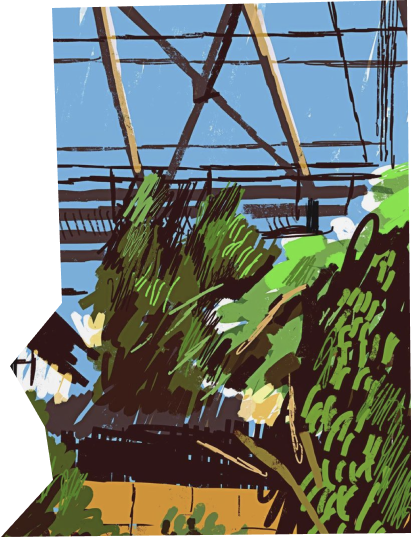
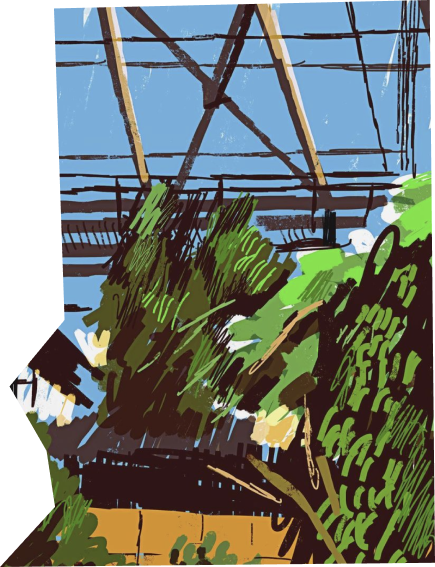
frame mobile on screen 8

diff --git a/src/assets/scripts/gulp-modules/home.js b/src/assets/scripts/gulp-modules/home.js
@@ -635,7 +635,8 @@ window.ttl = gsap.timeline( {
   scale: tl8IsMobile ? 1 : 1 / 1.5
 },'<')
 .to(frames[3], {
-  xPercent: tl8IsMobile ? -20 : -55,
+  yPercent: tl8IsMobile ? 8 : 0,
+  xPercent: tl8IsMobile ? -32 : -55,
   scale: tl8IsMobile ? 0.36 : 1 / 1.87
 },'<')
 .addLabel('frame1')
@@ -644,7 +645,7 @@ window.ttl = gsap.timeline( {
 
 // frame 2
 .to(frames[2], { 
-  scale: 1 / 0.49,
+  scale: tl8IsMobile ? 2.85 :  1 / 0.49,
   x: () => {
     return getDistanceToScreenCenter(frames[2], 1.7).x;
   }, 
@@ -654,54 +655,59 @@ window.ttl = gsap.timeline( {
 .to('[data-frame="1-1"]', { autoAlpha: 0, duration: 0.35 }, '<')
 .to(frames[1], { 
   scale: 1 / 2.3, 
-  xPercent: 62, 
-  yPercent: -50,
+  xPercent: tl8IsMobile ? 0 : 62, 
+  yPercent: tl8IsMobile ? -140 : -50,
   top: getDistanceToScreenCenter(frames[1]).initialTop 
 }, '<')
 .to(frames[5], { 
-  scale: 1 / 1.49, 
-  xPercent: -100, 
+  scale: tl8IsMobile ? 0.64 : 1 / 1.49, 
+  yPercent: tl8IsMobile ? 40 : 0,
+  xPercent: tl8IsMobile ? -108 : -100, 
 }, '<')
 .to(frames[4], { 
   scale: 1 / 1.4, 
-  yPercent: 108,
-  xPercent: 100, 
+  xPercent: tl8IsMobile ? -15 : 100, 
+  yPercent: tl8IsMobile ?  70 : 108,
 }, '<')
 .to(frames[3], { 
-  xPercent: -135,
+  xPercent: tl8IsMobile ? 30 : -135,
 }, '<')
 .to('[data-frame="1-2"]', { autoAlpha: 1, duration: 0.35 } )
 .addLabel('frame2')
 // frame 3
 
 .to(frames[3], { 
-  scale: 1 / 0.37,
-  xPercent: -262,
-  yPercent: -115
+  scale: tl8IsMobile ? 1.4 : 1 / 0.37,
+  xPercent: tl8IsMobile ? -15 : -262,
+  yPercent: tl8IsMobile ? -107 : -115
 })
+
 .to('[data-frame="1-2"]', { autoAlpha: 0, duration: 0.35 }, '<')
 .to(frames[2], { 
-  scale: 1 / 1.38,
+  scale: tl8IsMobile ? 1 : 1 / 1.38,
   x: 0,
   y: 0,
-  xPercent: 60,
-  yPercent: 0,
+  xPercent: tl8IsMobile ? -100 : 60,
+  yPercent: tl8IsMobile ? 102 : 0,
   top: getDistanceToScreenCenter(frames[2]).initialTop
 }, '<')
 .to(frames[1], { 
-  xPercent: 83,
-}, '<')
-.to(frames[5], { 
-  xPercent: -100,
-  yPercent: -70,
-  scale: 1/0.83,
+  xPercent: tl8IsMobile ? -16 : 83,
+  yPercent: tl8IsMobile ? -232 : -140,
 }, '<')
 .to(frames[4], { 
-  xPercent: 100,
-  yPercent: 100,
-  scale: 1/2.04,
+  xPercent: tl8IsMobile ? 81 :  100,
+  yPercent: tl8IsMobile ? 88 :  100,
+  scale: tl8IsMobile ? 0.79 : 1/2.04,
+}, '<')
+
+.to(frames[5], { 
+  xPercent: tl8IsMobile ? -180 : -100,
+  yPercent: tl8IsMobile ? 40  : -70,
+  scale: tl8IsMobile ? 0.8 : 1/0.83,
 }, '<')
 .to('[data-frame="1-3"]', { autoAlpha: 1, duration: 0.35 } )
+//translate(-180%, 40%) scale(0.8)
 .addLabel('frame3')
 
 // frame 4
@@ -718,7 +724,7 @@ window.ttl = gsap.timeline( {
 .to(frames[4], { 
   xPercent: 245,
   yPercent: 75,
-  scale: 1 / 0.5,
+  scale: tl8IsMobile ? 3.09 : 1 / 0.5,
 }, '<')
 .to(frames[2], { 
   xPercent: 0,

diff --git a/src/assets/styles/home/screen8-home.scss b/src/assets/styles/home/screen8-home.scss
@@ -103,6 +103,10 @@
         top: calc(100% + 8px);
         left: 0;
         opacity: 0;
+        @include to(575px){
+            font-size: 6px;
+            width: 70px;
+        }
     }
     [data-frame="2"] {
         width: 203px;
@@ -131,6 +135,11 @@
         text-transform: uppercase;
         color: var(--color-black);
         opacity: 0;
+        @include to(575px){
+            bottom: auto;
+            top: calc(100% + 8px);
+            left: 0;
+        }
     }
     [data-frame="3"] {
        width: 184px;
@@ -144,11 +153,13 @@
             height: 66.9vw;
             left: 55.4%;
             top: 60.6%;
+            
             img {
                 width: 100%;
                 height: 100%;
                 object-fit: cover;
                 object-position: top right;
+                
             }
        }
        
@@ -165,6 +176,12 @@
         text-transform: uppercase;
         color: var(--color-black);
         opacity: 0;
+        @include to(575px){
+            top: 100%;
+            left: 11%;
+            width: 65px;
+            font-size: 6px;
+        }
     }
     [data-frame="4"] {
         height: 268.5px;
@@ -173,6 +190,9 @@
         width: 14vw;
         left: 4.2%;
         top: 6.1%;
+        img {
+            will-change: transform;
+        }
         @include to(575px){
             height: 25vw;
             width: 18.7vw;
